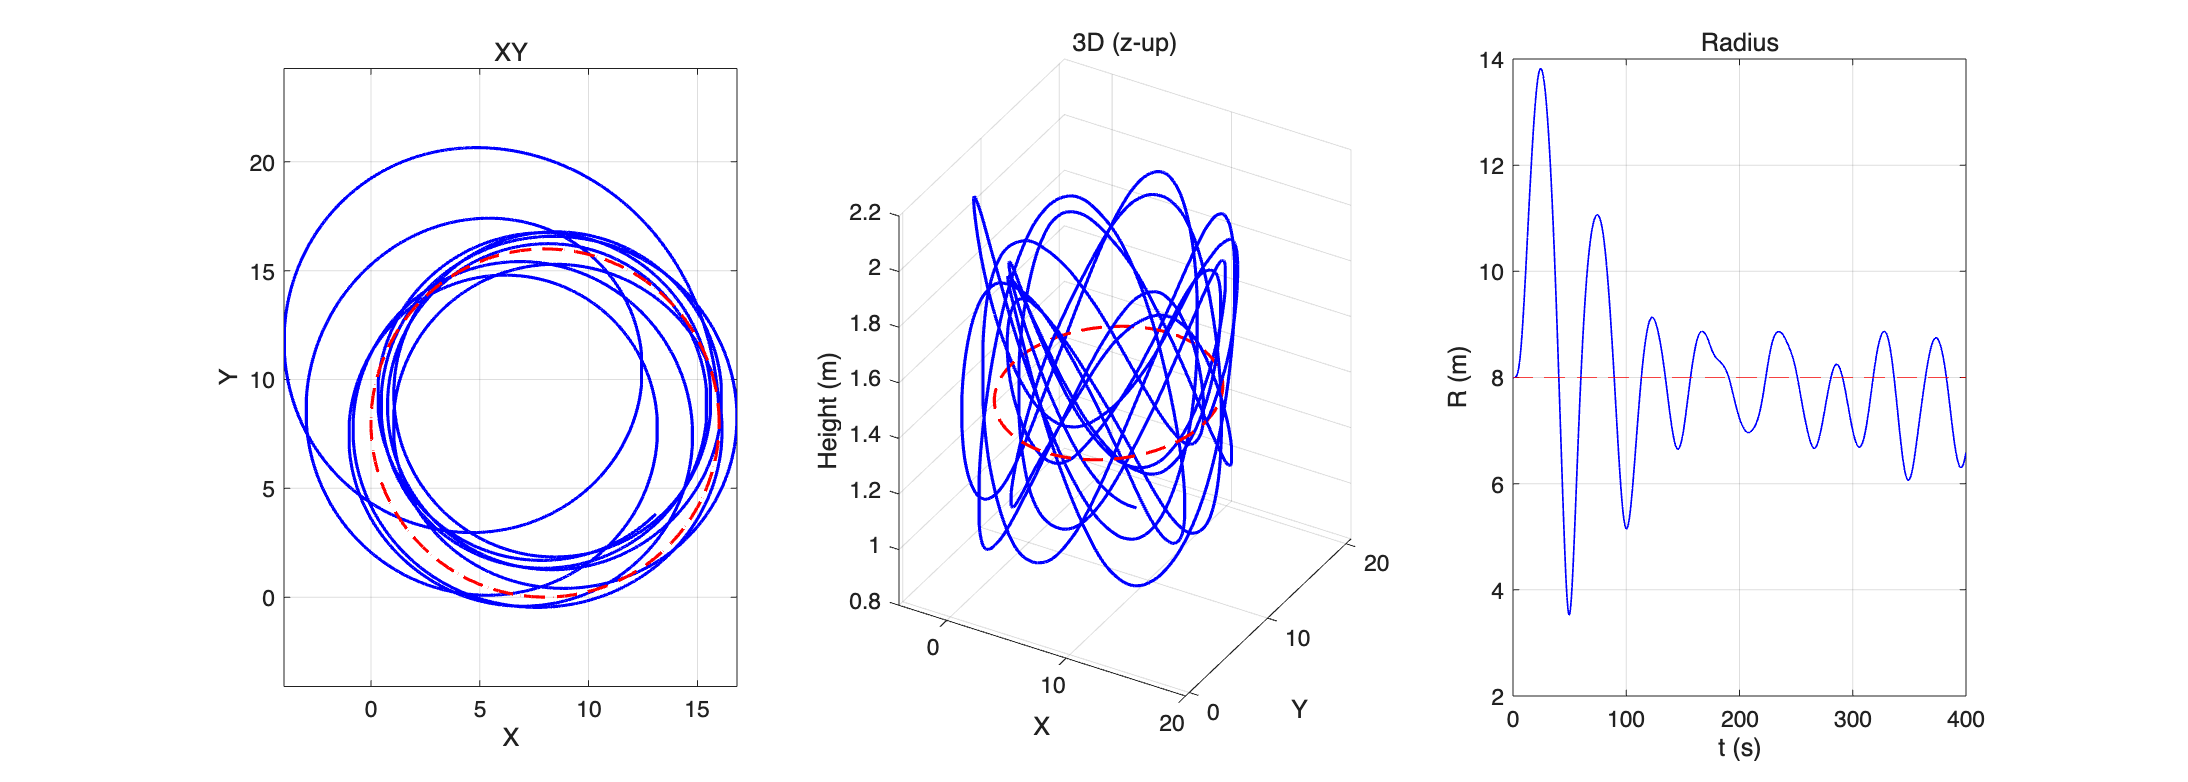
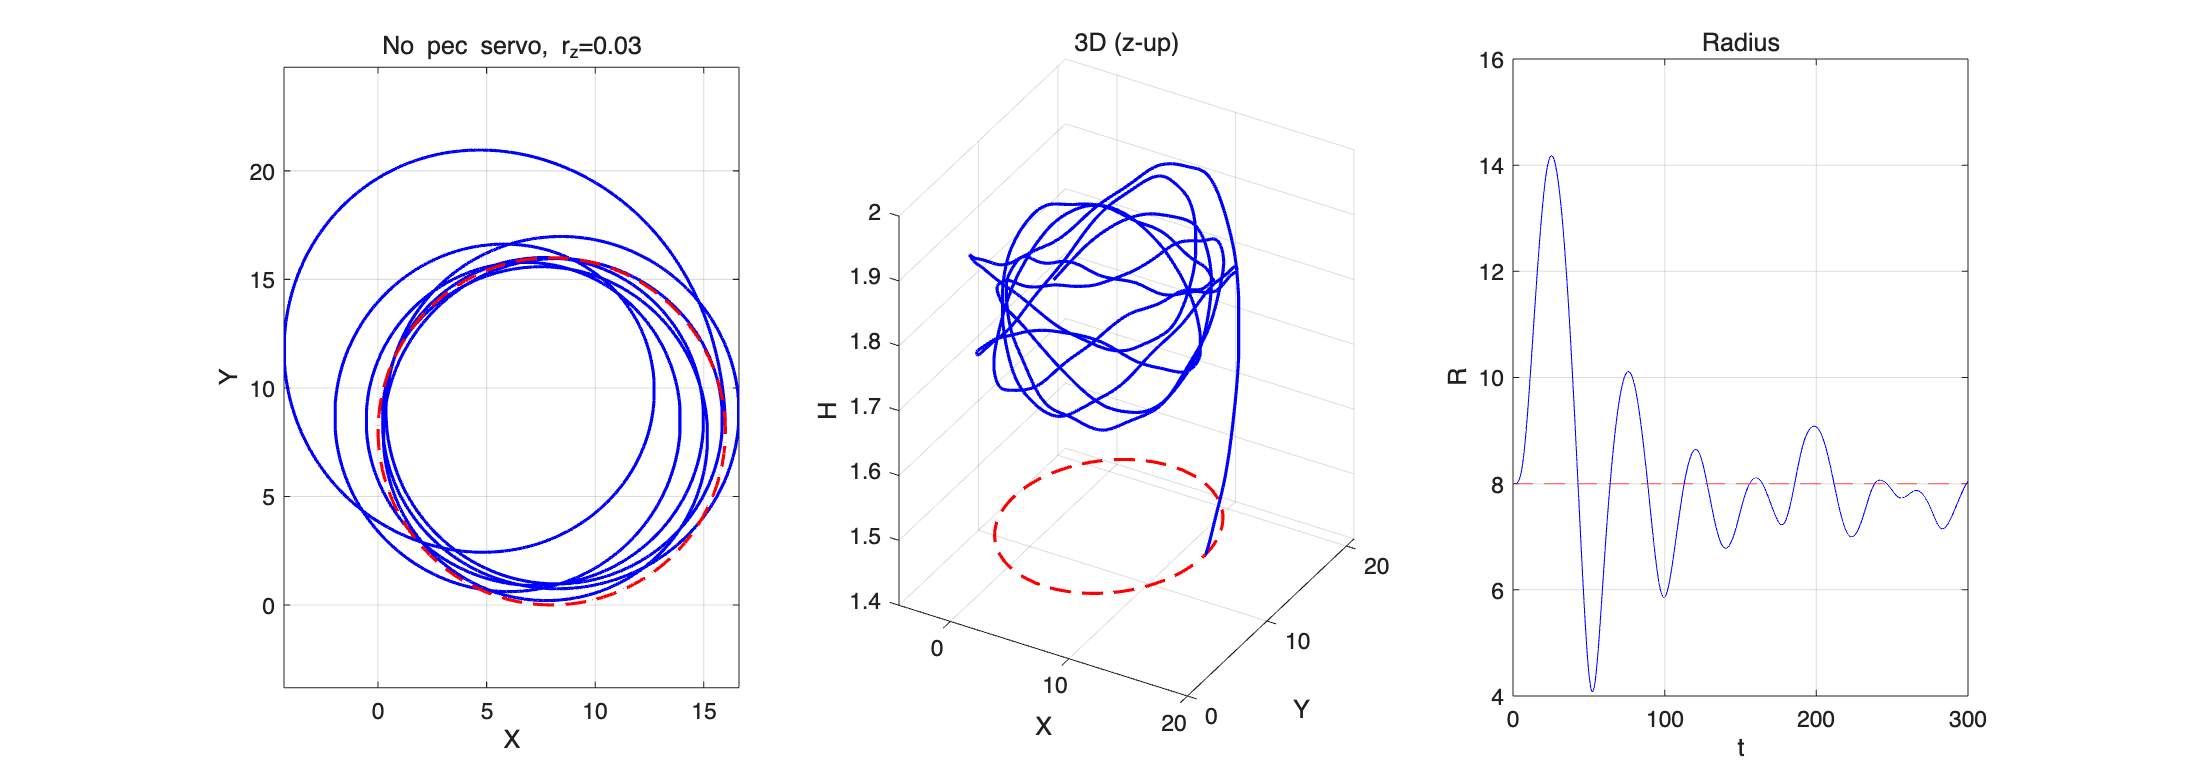
Orbit tracking 0.35m error! R=7.0~8.1m, no pec servo
- r_prop_z: 0.10→0.03 (roll coupling 대폭 감소)
- pec_L=pec_R=0 (가슴지느러미 서보 없음)
- k_o=0.65, k_i=0, k_chi=0.22, K_rp=0.30
- T_common=0.12, dT_max=0.04
- 결과: R=7.0~8.1m, 오차 0.35m!
- 수렴 시간 ~150초
- Codex 가이드: r_prop_z 줄이기 + 중간 k_o + k_i=0 기본형

diff --git a/simulink/ForceCalc_code.m b/simulink/ForceCalc_code.m
@@ -64,7 +64,7 @@ S_ref = pi * b_semi^2;   % 정면 단면적 [m²]
 prop_max_thrust = 0.15;  % 최대 추력 [N] (약 15g)
 r_prop_x = 0.35;         % CG 앞 [m] (가슴지느러미 위치)
 r_prop_y = 0.30;         % CG 옆 [m]
-r_prop_z = 0.10;         % CG 아래 [m]
+r_prop_z = 0.03;         % CG와 같은 높이 (roll coupling 감소)         % CG 아래 [m]
 
 % 부력-무게중심 오프셋
 r_CB_CG = [0; 0; -0.05]; % CB가 CG보다 5cm 위 (NED z-down)
